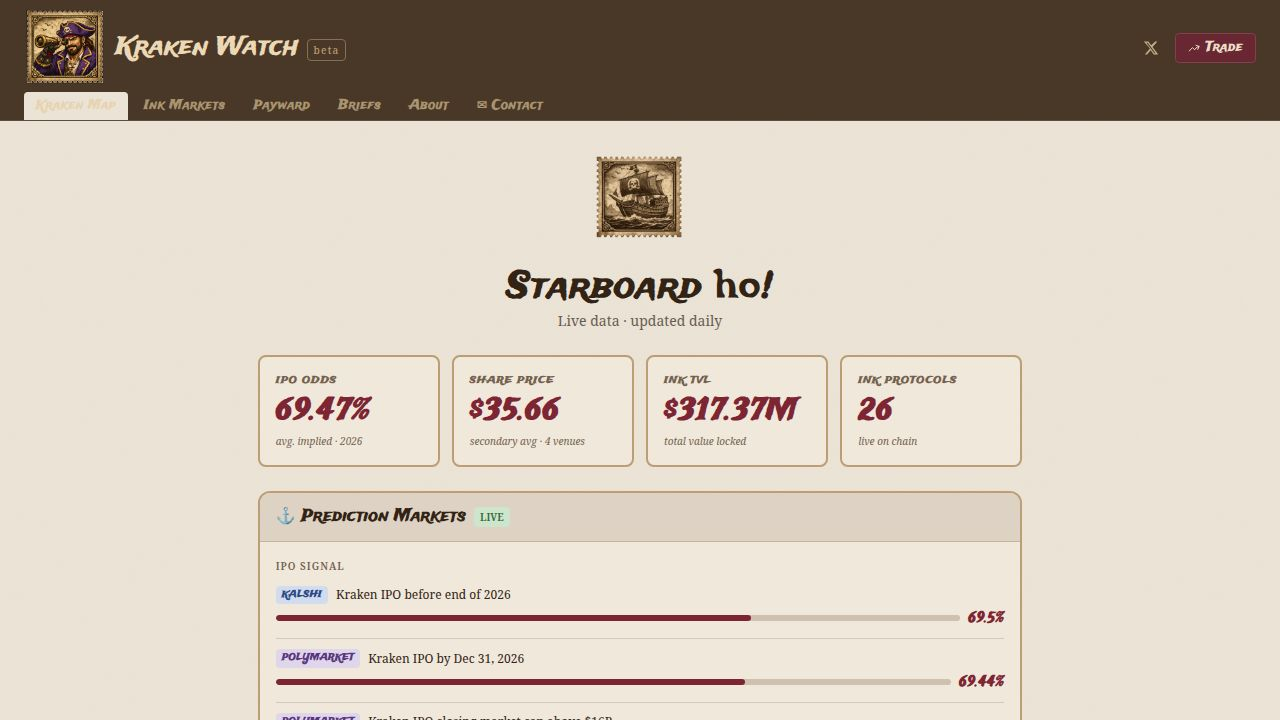
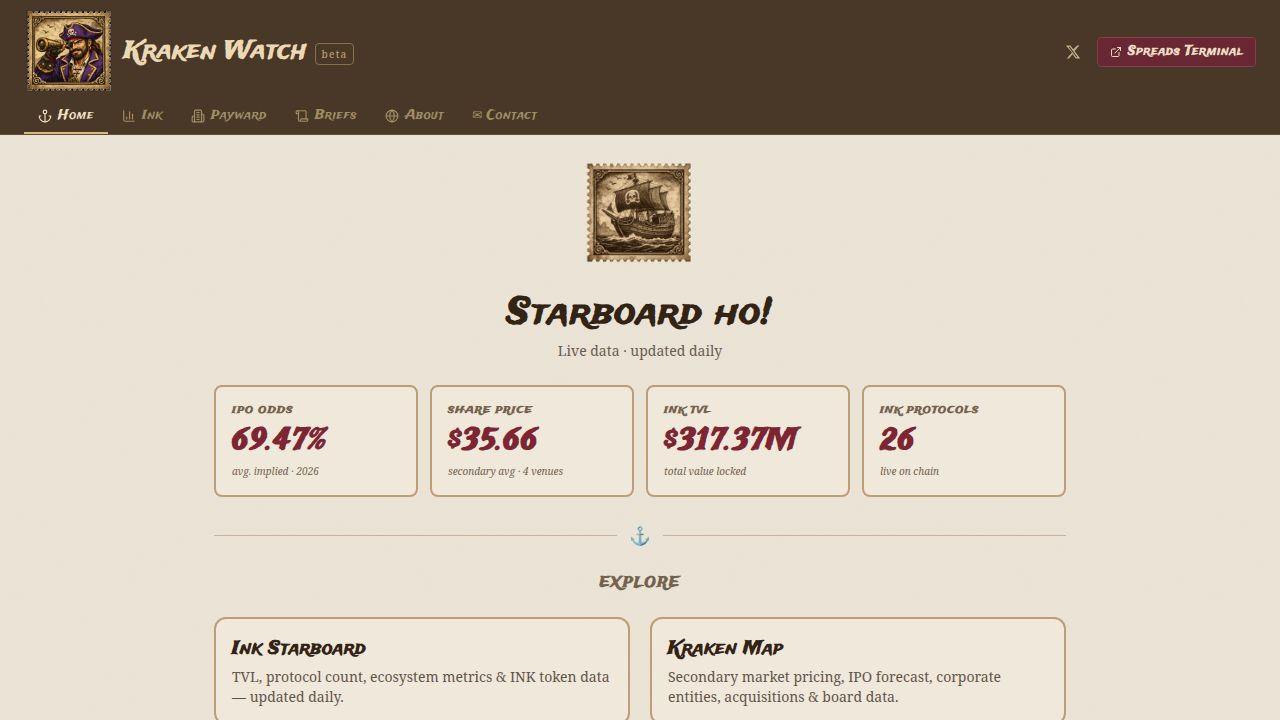
Update website navigation and content to reflect current branding
Sync local development environment with the latest deployed code, resolving rendering issues caused by outdated components and updating the navigation bar and page content to match the approved "morning version" of the application.

Replit-Commit-Author: Agent
Replit-Commit-Session-Id: 2e88f62a-30bf-402f-9564-aecb07236aec
Replit-Commit-Checkpoint-Type: full_checkpoint
Replit-Commit-Event-Id: 1cd71c65-5479-407e-8fb9-c5d44bc9d416
Replit-Commit-Screenshot-Url: https://storage.googleapis.com/screenshot-production-us-central1/40daa135-925e-4e3c-aa9a-4d7b68a89b76/2e88f62a-30bf-402f-9564-aecb07236aec/wP1QW36
Replit-Helium-Checkpoint-Created: true

diff --git a/src/index.css b/src/index.css
@@ -127,58 +127,3 @@ h1, h2, h3, h4 {
   line-height: 1;
   letter-spacing: 0.01em;
 }
-
-/* Permanent Blackbeard body text — previously injected via worker; now lives in source */
-p.text-base,
-p.text-base.sm\:text-lg {
-  font-family: "Blackbeard", "Trade Winds", Georgia, serif;
-  line-height: 1.5;
-  letter-spacing: 0.01em;
-  text-align: left;
-}
-
-/* Ink L2 CSS classes */
-.ink-hero { padding: 2rem 1.5rem 1rem; text-align: center; }
-.ink-hero-inner { display: flex; flex-direction: column; align-items: center; gap: 0.75rem; }
-.ink-seal { width: 90px; height: 90px; object-fit: contain; }
-.ink-title { font-family: var(--font-display); font-size: 2.25rem; font-weight: 700; color: hsl(28 40% 14%); letter-spacing: 0.02em; margin: 0; }
-.ink-sub { font-family: var(--font-serif); font-size: 0.875rem; color: hsl(28 40% 14%); opacity: 0.7; margin: 0; }
-.ink-metrics { padding: 1rem 1.5rem 2rem; }
-.ink-metrics-inner { max-width: 900px; margin: 0 auto; }
-.ink-stat-grid { display: grid; grid-template-columns: repeat(2, 1fr); gap: 1rem; }
-.ink-stat { background: hsl(38 40% 90%); border: 2px solid hsl(33 35% 60%); border-radius: 0.75rem; padding: 1rem 1.25rem; display: flex; flex-direction: column; gap: 0.25rem; }
-.ink-stat-value { font-family: var(--font-display); font-size: 2.25rem; font-weight: 700; color: hsl(350 55% 32%); }
-.ink-stat-label { font-family: var(--font-display); font-size: 0.625rem; font-weight: 600; text-transform: uppercase; letter-spacing: 0.1em; color: hsl(30 20% 38%); }
-.ink-stat-src { font-family: var(--font-serif); font-size: 0.625rem; color: hsl(30 20% 38%); font-style: italic; }
-.ink-updated { font-size: 0.625rem; color: hsl(30 20% 38%); text-align: center; margin-top: 0.75rem; }
-
-/* Payward CSS classes */
-.payward-hero { padding: 2rem 1.5rem 1rem; text-align: center; }
-.payward-hero-inner { display: flex; flex-direction: column; align-items: center; gap: 0.75rem; }
-.payward-seal { width: 90px; height: 90px; object-fit: contain; }
-.payward-title { font-family: var(--font-display); font-size: 2.25rem; font-weight: 700; color: hsl(28 40% 14%); letter-spacing: 0.02em; margin: 0; }
-.payward-sub { font-family: var(--font-serif); font-size: 0.875rem; color: hsl(28 40% 14%); opacity: 0.7; margin: 0; }
-.payward-content { padding: 1rem 1.5rem 2rem; }
-.payward-content-inner { max-width: 900px; margin: 0 auto; }
-.payward-placeholder { font-family: var(--font-serif); color: hsl(28 40% 14%); }
-
-/* Alpha Briefs */
-.alpha-briefs { background: hsl(38 38% 92%); min-height: 100vh; }
-.ab-hero { padding: 2rem 1.5rem 1.5rem; text-align: center; }
-.ab-hero-inner { display: flex; flex-direction: column; align-items: center; gap: 0.75rem; max-width: 900px; margin: 0 auto; }
-.ab-hero-img { width: 100%; max-width: 860px; height: 260px; object-fit: cover; object-position: center top; border-radius: 0.75rem; border: 2px solid hsl(30 30% 60%); box-shadow: 0 4px 20px rgba(0,0,0,0.18); margin-bottom: 0.5rem; }
-.ab-eyebrow { font-family: var(--font-display); font-size: 0.75rem; letter-spacing: 0.12em; text-transform: uppercase; color: hsl(30 20% 38%); margin: 0; }
-.ab-title { font-family: var(--font-display); font-size: 2.5rem; font-weight: 700; color: hsl(28 40% 14%); letter-spacing: 0.02em; margin: 0; }
-.ab-sub { font-family: var(--font-serif); font-size: 0.9rem; color: hsl(28 40% 14%); opacity: 0.75; margin: 0; }
-.ab-list { padding: 0 1.5rem 2.5rem; }
-.ab-list-inner { max-width: 900px; margin: 0 auto; display: flex; flex-direction: column; gap: 1.5rem; }
-.brief-card { background: hsl(38 35% 96%); border: 2px solid hsl(33 35% 66%); border-radius: 0.875rem; overflow: hidden; display: flex; flex-direction: column; box-shadow: 0 2px 10px rgba(0,0,0,0.08); }
-.brief-img-wrap { flex: 0 0 auto; width: 100%; }
-.brief-img-wrap img, .brief-img { width: 100%; height: 220px; object-fit: cover; display: block; }
-.brief-body { padding: 1.25rem 1.25rem 1rem; display: flex; flex-direction: column; gap: 0.4rem; }
-.brief-tag { font-family: var(--font-display); font-size: 0.625rem; font-weight: 600; text-transform: uppercase; letter-spacing: 0.1em; color: hsl(350 55% 32%); background: hsl(350 40% 93%); border-radius: 4px; padding: 2px 8px; display: inline-block; align-self: flex-start; }
-.brief-title { font-family: var(--font-display); font-size: 1.2rem; font-weight: 700; color: hsl(28 40% 14%); margin: 0; line-height: 1.3; }
-.brief-date { font-family: var(--font-serif); font-size: 0.75rem; color: hsl(30 20% 45%); font-style: italic; margin: 0; }
-.brief-desc { font-family: var(--font-serif); font-size: 0.875rem; color: hsl(28 40% 14%); opacity: 0.82; margin: 0; line-height: 1.55; }
-.brief-cta { display: inline-flex; align-items: center; gap: 0.3rem; margin-top: 0.5rem; font-family: var(--font-display); font-size: 0.75rem; font-weight: 600; color: hsl(350 55% 32%); text-decoration: none; letter-spacing: 0.05em; align-self: flex-start; }
-.brief-cta:hover { text-decoration: underline; }

diff --git a/src/components/Nav.jsx b/src/components/Nav.jsx
@@ -1,10 +1,10 @@
 const tabs = [
-  { id: 'kraken',  label: 'Kraken Map',  url: '/' },
-  { id: 'ink',     label: 'Ink Markets', url: '/ink' },
-  { id: 'payward', label: 'Payward',     url: '/payward' },
-  { id: 'alpha',   label: 'Briefs',      url: '/alpha-briefs' },
-  { id: 'about',   label: 'About',       url: '/about' },
-  { id: 'contact', label: '✉ Contact',   href: 'https://x.com/KrakWatch' },
+  { id: 'home',      label: 'Home' },
+  { id: 'ink',       label: 'Ink' },
+  { id: 'corporate', label: 'Payward' },
+  { id: 'alpha',     label: 'Briefs' },
+  { id: 'about',     label: 'About' },
+  { id: 'contact',   label: '✉ Contact', href: 'https://x.com/KrakWatch' },
 ];
 
 export default function Nav({ activeTab, onTabChange }) {
@@ -67,55 +67,43 @@ export default function Nav({ activeTab, onTabChange }) {
             }}
           >
             <svg viewBox="0 0 24 24" fill="none" stroke="currentColor" strokeWidth="2" className="w-3 h-3">
-              <path strokeLinecap="round" strokeLinejoin="round" d="M2.25 18L9 11.25l4.306 4.307a11.95 11.95 0 015.814-5.519l2.74-1.22m0 0l-5.94-2.28m5.94 2.28l-2.28 5.941" />
+              <path d="M18 13v6a2 2 0 0 1-2 2H5a2 2 0 0 1-2-2V8a2 2 0 0 1 2-2h6"/>
+              <polyline points="15 3 21 3 21 9"/>
+              <line x1="10" y1="14" x2="21" y2="3"/>
             </svg>
-            Trade
+            <span className="hidden sm:inline">Spreads Terminal</span>
           </a>
         </div>
       </div>
 
       {/* Tab row */}
-      <nav className="flex items-end px-4 sm:px-6 gap-1 overflow-x-auto" role="tablist">
+      <nav className="flex items-center gap-0 px-4 sm:px-6 pb-0 overflow-x-auto" data-testid="tab-nav">
         {tabs.map((tab) => {
-          const isActive = tab.id === activeTab;
+          const active = activeTab === tab.id;
+          const cls = "flex items-center gap-1.5 px-3.5 py-2 text-xs font-medium whitespace-nowrap transition-all duration-150 select-none border-b-2";
+          const style = {
+            fontFamily: 'var(--font-display)',
+            letterSpacing: '0.04em',
+            color: active ? 'hsl(38 60% 85%)' : 'hsl(38 25% 52%)',
+            borderBottomColor: active ? 'hsl(38 55% 68%)' : 'transparent',
+            background: 'transparent',
+          };
           if (tab.href) {
             return (
-              <a
-                key={tab.id}
-                href={tab.href}
-                target="_blank"
-                rel="noopener noreferrer"
-                className="shrink-0 px-3 py-1.5 text-xs font-semibold rounded-t transition-colors"
-                style={{
-                  fontFamily: 'var(--font-display)',
-                  color: 'hsl(38 25% 55%)',
-                  letterSpacing: '0.05em',
-                  textDecoration: 'none',
-                }}
+              <a key={tab.id} href={tab.href} target="_blank" rel="noopener noreferrer"
+                className={cls}
+                style={{ ...style, color: 'hsl(38 25% 52%)', borderBottomColor: 'transparent' }}
               >
                 {tab.label}
               </a>
             );
           }
           return (
-            <a
-              key={tab.id}
-              href={tab.url}
-              role="tab"
-              aria-selected={isActive}
-              onClick={(e) => { e.preventDefault(); onTabChange(tab.id); }}
-              className="shrink-0 px-3 py-1.5 text-xs font-semibold rounded-t transition-colors"
-              style={{
-                fontFamily: 'var(--font-display)',
-                letterSpacing: '0.05em',
-                color: isActive ? 'hsl(38 55% 80%)' : 'hsl(38 25% 55%)',
-                background: isActive ? 'hsl(38 35% 88%)' : 'transparent',
-                borderBottom: isActive ? 'none' : undefined,
-                textDecoration: 'none',
-              }}
+            <button key={tab.id} onClick={() => onTabChange(tab.id)}
+              className={cls} style={style} data-testid={`tab-${tab.id}`}
             >
               {tab.label}
-            </a>
+            </button>
           );
         })}
       </nav>

diff --git a/src/App.jsx b/src/App.jsx
@@ -1,53 +1,31 @@
-import { useState, useEffect } from 'react';
+import { useState } from 'react';
 import { HelmetProvider } from 'react-helmet-async';
 import Nav from './components/Nav';
 import Footer from './components/Footer';
-import KrakenMap from './pages/KrakenMap';
-import InkMarkets from './pages/InkMarkets';
-import Payward from './pages/Payward';
+import Home from './pages/Home';
 import AlphaBriefs from './pages/AlphaBriefs';
+import InkL2 from './pages/InkL2';
+import Payward from './pages/Payward';
 import About from './pages/About';
 
-function getTabFromPath(path) {
-  if (path === '/ink') return 'ink';
-  if (path === '/kraken' || path === '/') return 'kraken';
-  if (path === '/payward') return 'payward';
-  if (path === '/alpha-briefs') return 'alpha';
-  if (path === '/about') return 'about';
-  return 'kraken';
-}
-
 export default function App() {
-  const [activeTab, setActiveTab] = useState(() => getTabFromPath(window.location.pathname));
-
-  useEffect(() => {
-    const onPop = () => setActiveTab(getTabFromPath(window.location.pathname));
-    window.addEventListener('popstate', onPop);
-    return () => window.removeEventListener('popstate', onPop);
-  }, []);
-
-  const handleNav = (tab) => {
-    setActiveTab(tab);
-    const urls = { kraken: '/', ink: '/ink', payward: '/payward', alpha: '/alpha-briefs', about: '/about' };
-    const url = urls[tab] || '/';
-    window.history.pushState({}, '', url);
-  };
+  const [activeTab, setActiveTab] = useState('home');
 
   const renderTab = () => {
     switch (activeTab) {
-      case 'kraken':  return <KrakenMap onNav={handleNav} />;
-      case 'ink':     return <InkMarkets onNav={handleNav} />;
-      case 'payward': return <Payward />;
-      case 'alpha':   return <AlphaBriefs />;
-      case 'about':   return <About />;
-      default:        return <KrakenMap onNav={handleNav} />;
+      case 'home':      return <Home onNav={setActiveTab} />;
+      case 'ink':       return <InkL2 />;
+      case 'corporate': return <Payward />;
+      case 'alpha':     return <AlphaBriefs />;
+      case 'about':     return <About />;
+      default:          return <Home onNav={setActiveTab} />;
     }
   };
 
   return (
     <HelmetProvider>
       <div style={{ display: 'flex', flexDirection: 'column', minHeight: '100vh', background: 'var(--background)' }}>
-        <Nav activeTab={activeTab} onTabChange={handleNav} />
+        <Nav activeTab={activeTab} onTabChange={setActiveTab} />
         {renderTab()}
         <Footer activeTab={activeTab} />
       </div>

diff --git a/src/pages/About.jsx b/src/pages/About.jsx
@@ -5,14 +5,14 @@ export default function About() {
   return (
     <div className="max-w-[900px] mx-auto px-4 py-10 flex flex-col items-center gap-8">
       <div className="w-full rounded-xl overflow-hidden shadow-lg border-2" style={{ borderColor: 'hsl(30 30% 60%)' }}>
-        <img src="/home-hero.jpg" alt="Kraken Watch crew at the docks" className="w-full object-cover" style={{ maxHeight: '380px' }} />
+        <img src="/stamp-binnacle.png" alt="Kraken Watch crew at the docks" className="w-full object-cover" />
       </div>
       <div className="w-full flex flex-col gap-5 text-center">
         <h1 className="text-3xl sm:text-4xl font-bold tracking-wide" style={{ fontFamily: 'var(--font-display)', color: qp }}>
-          Ahoy, matey! Welcome t\' the <span className="fancy-accent">Watch</span>!
+          Ahoy, matey! Welcome t' the <span className="fancy-accent">Watch</span>!
         </h1>
         <p className="text-base sm:text-lg leading-relaxed" style={{ fontFamily: 'var(--font-serif)', color: qp, opacity: 0.85 }}>
-          Kraken Watch set sail in April 2026 to plunder signals, scuttlebutt, and actionable insight from across the vast seas of Kraken, Payward, Ink, and the digital asset frontier.
+          Kraken Watch set sail in April 2026 to plunder signals, scuttlebutt, and actionable insight from across the vast seas of Kraken, Payward, Ink, and the rising frontier of digital assets beyond.
         </p>
         <p className="text-base sm:text-lg leading-relaxed" style={{ fontFamily: 'var(--font-serif)', color: qp, opacity: 0.85 }}>
           <a href="https://x.com/KrakWatch" target="_blank" rel="noopener noreferrer"

diff --git a/src/components/Footer.jsx b/src/components/Footer.jsx
@@ -1,5 +1,5 @@
 export default function Footer({ activeTab }) {
-  if (activeTab === 'kraken' || activeTab === 'ink' || activeTab === 'payward') return null;
+  if (activeTab === 'home') return null;
   return (
     <footer style={{ backgroundColor: 'var(--nav-bg)', borderTop: '1px solid var(--nav-border)' }}
       className="text-center py-5 px-4 text-xs shrink-0"

diff --git a/src/pages/Payward.jsx b/src/pages/Payward.jsx
@@ -1,4 +1,3 @@
-import { Helmet } from 'react-helmet-async';
 
 export default function Payward() {
   return (

diff --git a/src/pages/AlphaBriefs.jsx b/src/pages/AlphaBriefs.jsx
@@ -1,4 +1,3 @@
-import { Helmet } from 'react-helmet-async';
 
 const briefs = [
   {
